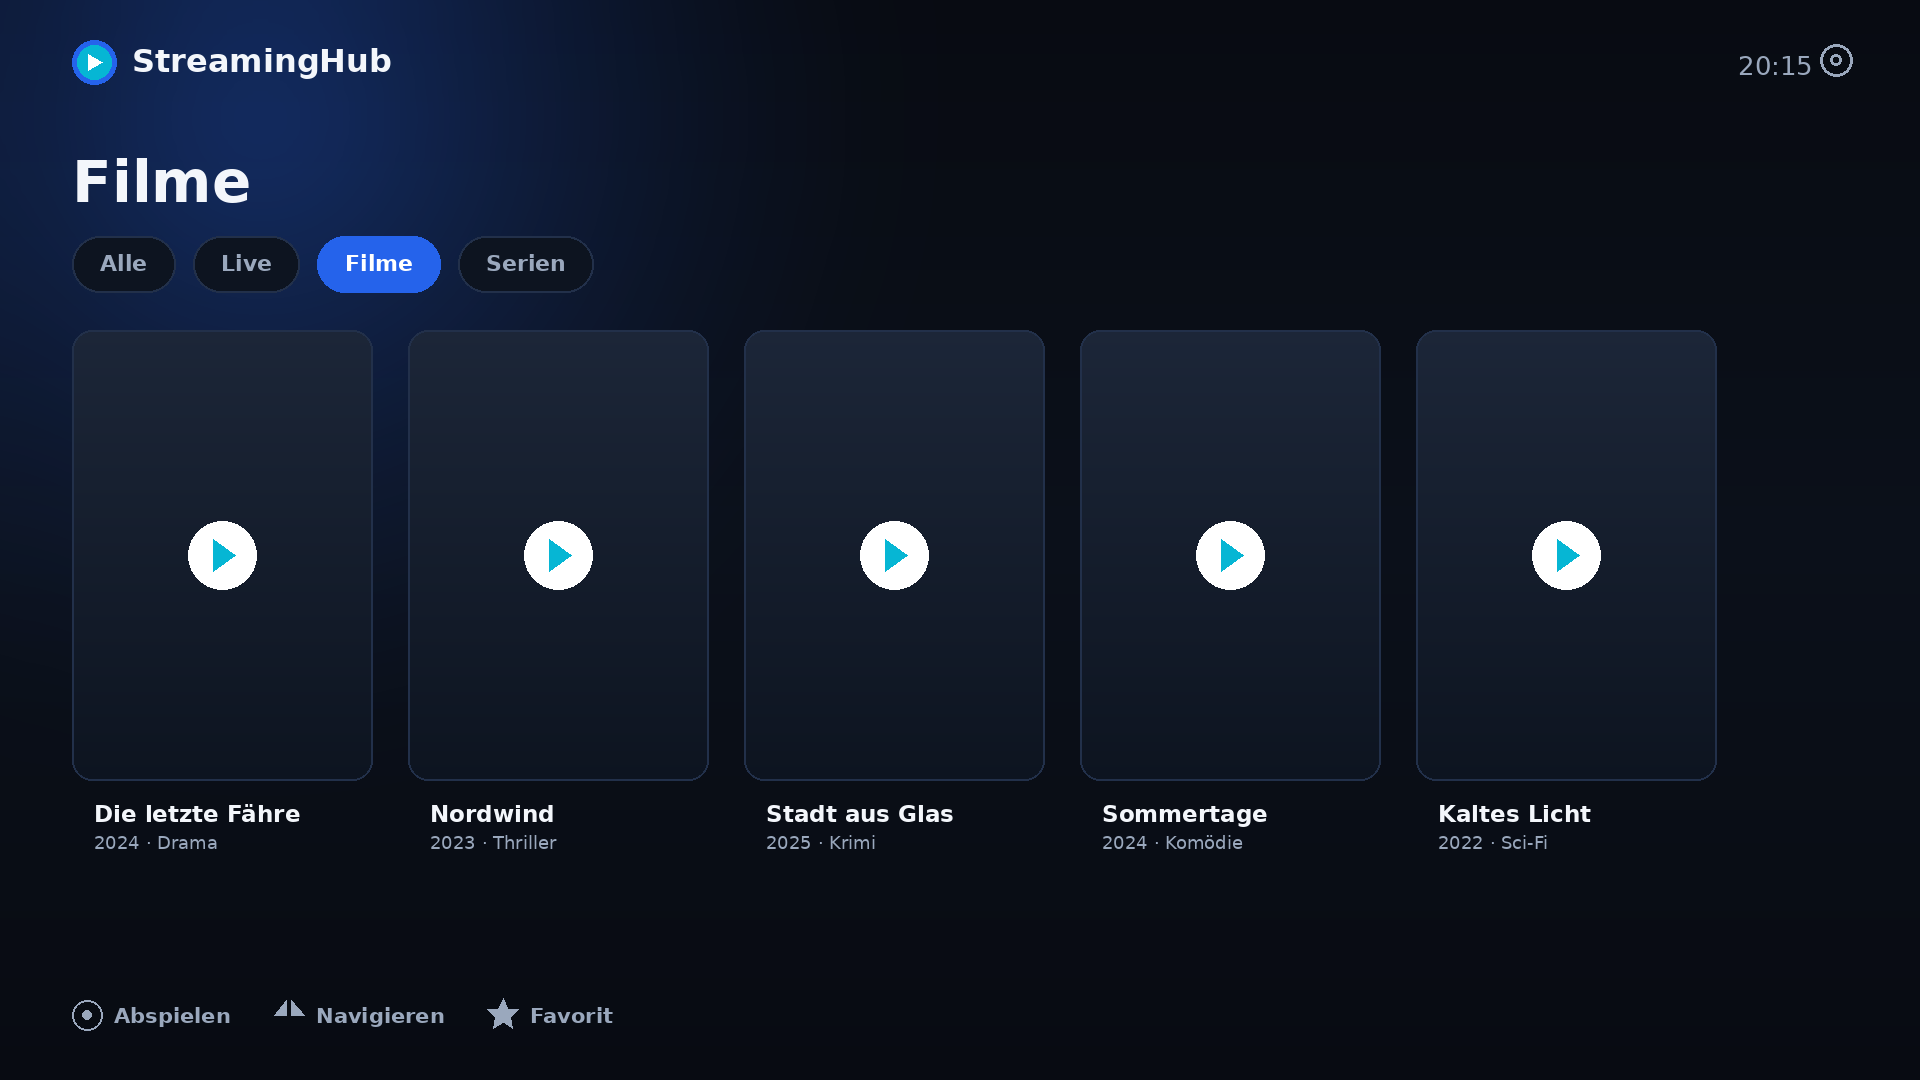
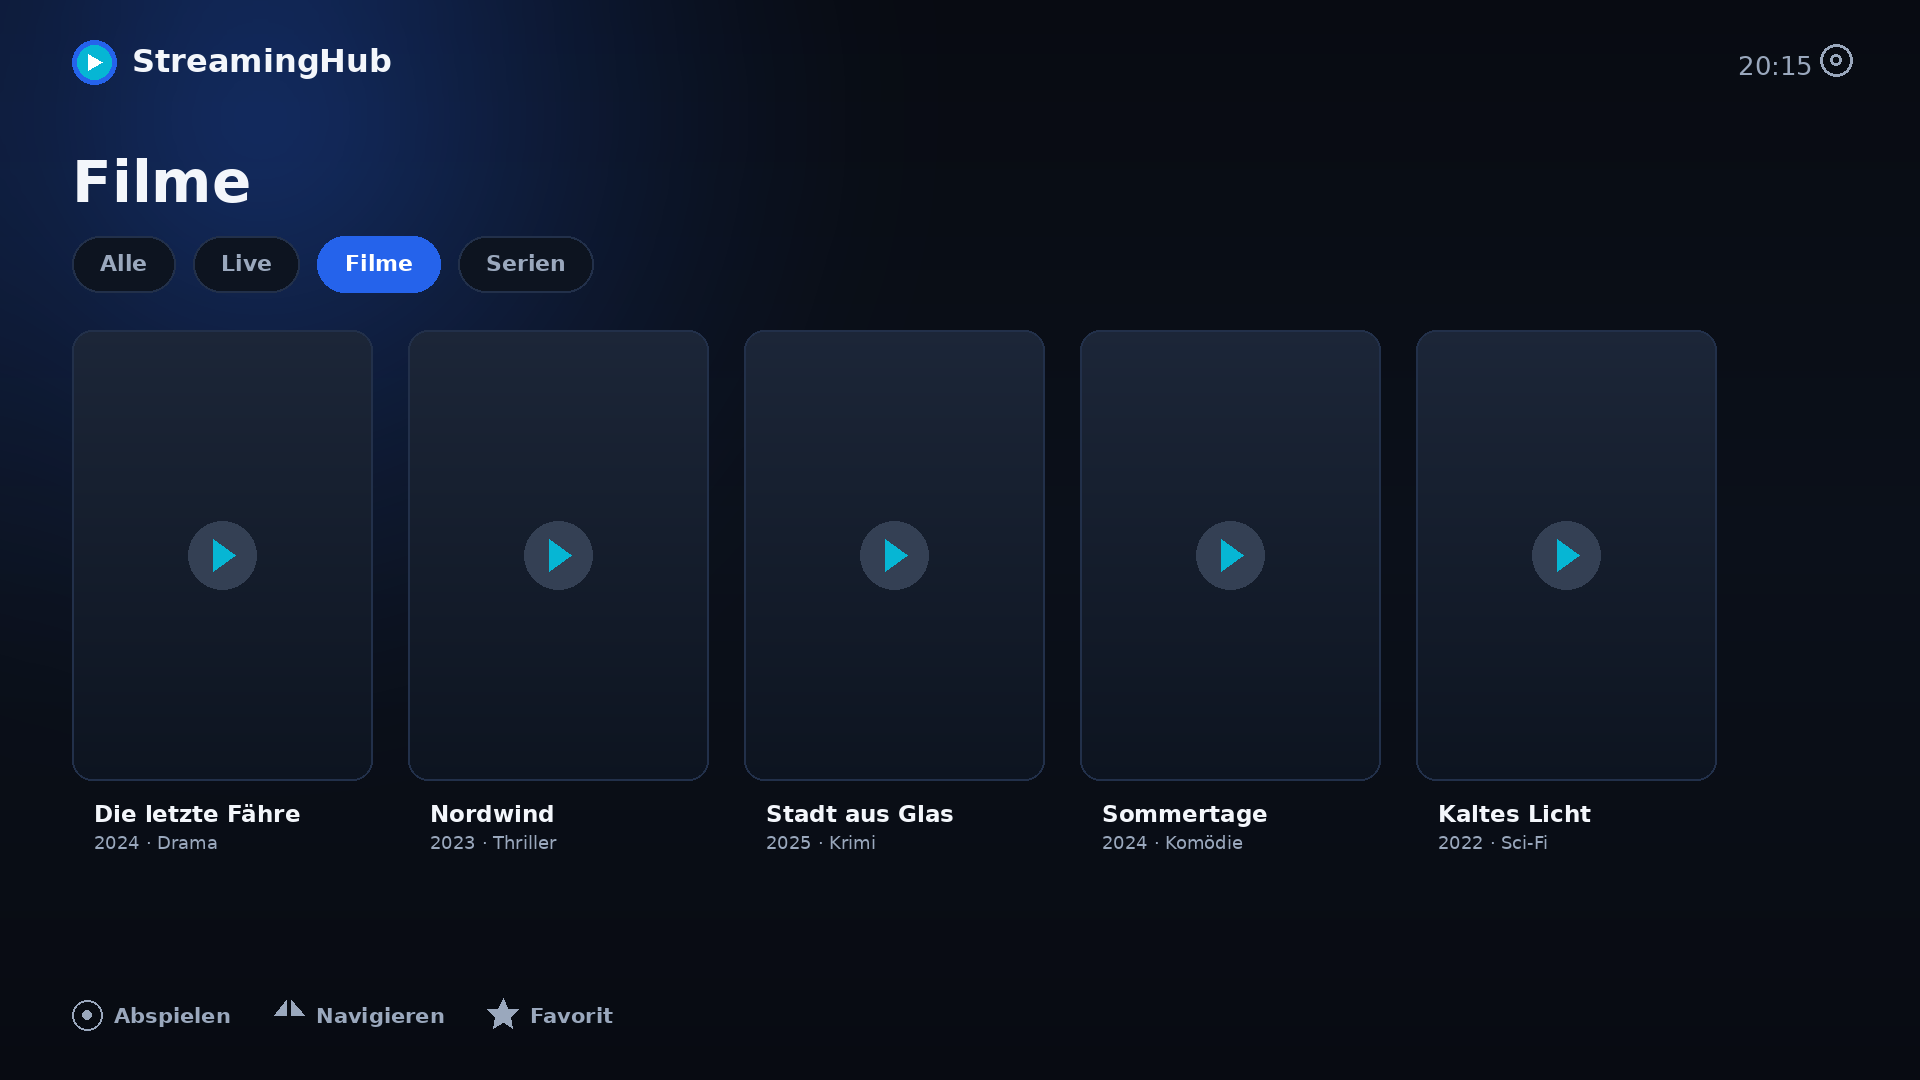
Add the remaining Amazon listing assets and fix alpha fills
Adds the 114x114 small icon and the optional 1920x1080 background image, keeps
the Fire TV icon inside its 882x448 safe area, and replaces semi-transparent
white fills that exported as opaque white blobs in the screenshots.

🤖 Generated with Codebuff

diff --git a/store/amazon/README.md b/store/amazon/README.md
@@ -1,21 +1,32 @@
 # Amazon Appstore assets
 
 Assets for the Amazon Appstore listing of the StreamingHub Android app
-(`de.streaminghub.app`). Keep the sizes exactly as listed — Amazon rejects
-wrong dimensions without a useful error.
+(`de.streaminghub.app`). Sizes must match exactly — Amazon rejects wrong
+dimensions without a useful error.
 
-| File | Size | Notes |
-| --- | --- | --- |
-| `icon-512.png` | 512 × 512, RGBA with transparency | Tablet/phone large icon, no rounded corners, no border |
-| `icon-firetv-1280x720.png` | 1280 × 720, opaque | Fire TV store tile, no transparency |
-| `screenshots/01-live-tv.png` | 1920 × 1080 | Channel grid with filters and search |
-| `screenshots/02-filme.png` | 1920 × 1080 | Movie grid |
-| `screenshots/03-programmfuehrer.png` | 1920 × 1080 | EPG with current programme and progress |
-| `screenshots/04-player.png` | 1920 × 1080 | Playback with controls |
-| `screenshots/05-kopplung.png` | 1920 × 1080 | Optional device pairing |
+| File | Size | Format | Notes |
+| --- | --- | --- | --- |
+| `icon-114.png` | 114 × 114 | PNG, RGBA, transparent | Small icon, drawn natively at 114 px (not an upscale), heavier proportions so the mark survives thumbnailing |
+| `icon-512.png` | 512 × 512 | PNG, RGBA, transparent | Large icon, no rounded corners, no border |
+| `icon-firetv-1280x720.png` | 1280 × 720 | PNG, RGB, opaque | Fire TV app icon |
+| `background-1920x1080.png` | 1920 × 1080 | PNG, RGB (24-bit) | Optional background image |
+| `screenshots/01-live-tv.png` | 1920 × 1080 | PNG, RGB | Channel grid with filters and search |
+| `screenshots/02-filme.png` | 1920 × 1080 | PNG, RGB | Movie grid |
+| `screenshots/03-programmfuehrer.png` | 1920 × 1080 | PNG, RGB | EPG with current programme and progress |
+| `screenshots/04-player.png` | 1920 × 1080 | PNG, RGB | Playback with controls |
+| `screenshots/05-kopplung.png` | 1920 × 1080 | PNG, RGB | Optional device pairing |
 
-Small icon 114 × 114 and the optional 1920 × 1080 background image are not
-included yet.
+## Content safe areas
+
+Amazon overlays badges and UI on some Fire TV assets, so the artwork keeps to
+the documented safe areas:
+
+- 1280 × 720 icon: main subject and title art inside **882 × 448 px**
+  (x 199–1081, y 136–584). Current artwork ends at x = 1019.
+- 1920 × 1080 background image: main subject inside **1214 × 830 px**
+  (x 353–1567, y 125–955), placed on the **right**, with no app logo or title
+  embedded — both are Amazon requirements for this asset.
+- Screenshots are not badged and need no safe area.
 
 ## Important: these screenshots are renderings, not device captures
 
@@ -32,6 +43,6 @@ not as verified captures.
 
 ## Regenerating
 
-The images are generated artwork; the banner and launcher icons that ship
+The images are generated artwork. The banner and launcher icons that ship
 inside the APK live under `android/app/src/main/res/` and are unrelated to this
 folder.
